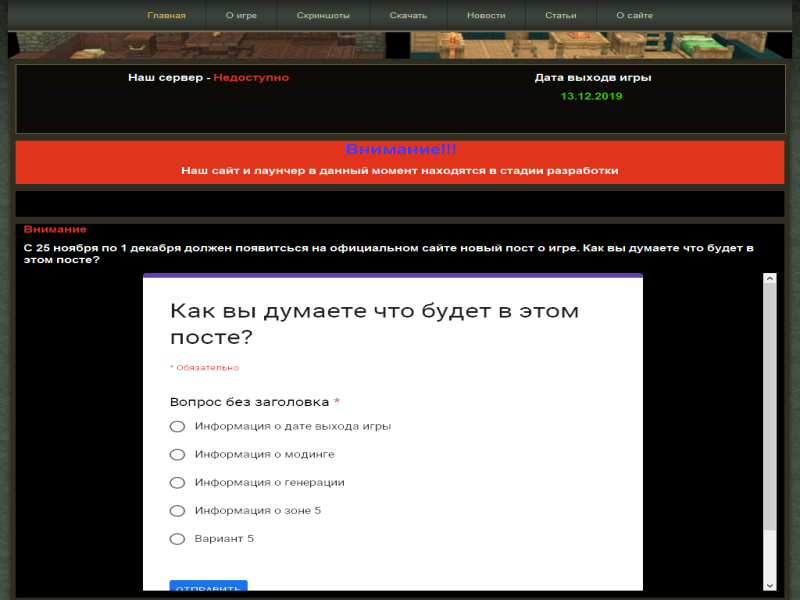
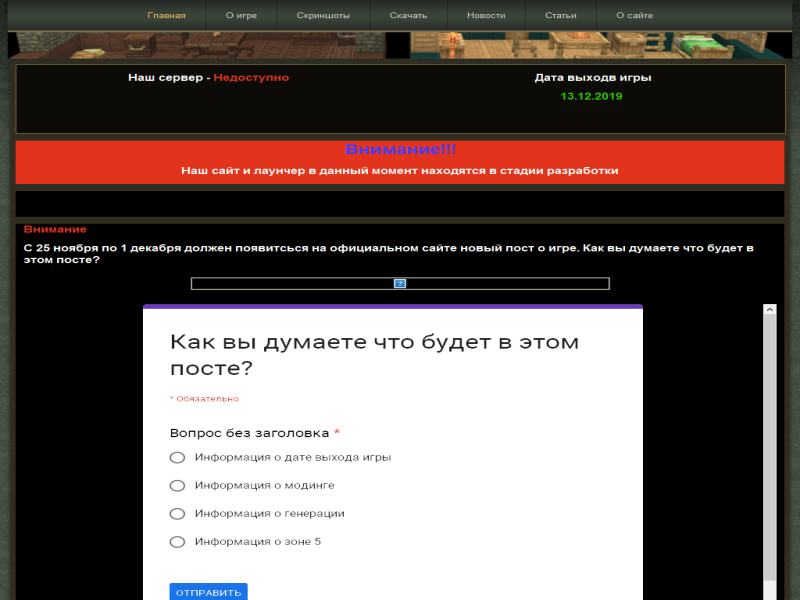
Обновление сайта

diff --git a/index.html b/index.html
@@ -77,7 +77,7 @@
     <div class="art-content-layout-row">
     <div class="art-layout-cell layout-item-3" style="width: 100%" >
         <p><script src="//megatimer.ru/get/f62e73b5b498076e5767d203726311b9.js" type="text/javascript">
-                </script></p>
+                        </script></p>
     </div>
     </div>
 </div>
@@ -88,7 +88,8 @@
     <div class="art-layout-cell layout-item-3" style="width: 100%" >
         <p><span style="font-size: 16px; font-weight: bold; text-align: center; -webkit-border-vertical-spacing: 10px;">Внимание</span></p>
         <p><span style="font-size: 16px; font-weight: bold; text-align: center; -webkit-border-vertical-spacing: 10px; color: #FFFFFF;">С 25 ноября по 1 декабря должен появитсься на официальном сайте новый пост о игре. Как вы думаете что будет в этом посте?</span></p>
-        <p style="text-align: center;"><span style="color: rgb(255, 255, 255); font-size: 16px; font-weight: bold; -webkit-border-vertical-spacing: 10px;"><iframe src="https://docs.google.com/forms/d/e/1FAIpQLScsriNS3MPHGotL2UrztN3o7AlryWI_HW8NQM709cnawyFJFQ/viewform?embedded=true" width="640" height="700" frameborder="0" marginheight="0" marginwidth="0"><span style="color: rgb(255, 255, 255); font-size: 16px; font-weight: bold; -webkit-border-vertical-spacing: 10px;">&amp;amp;lt;span style="color: rgb(255, 255, 255); font-size: 16px; font-weight: bold; -webkit-border-vertical-spacing: 10px;"&amp;amp;gt;&amp;amp;amp;amp;amp;lt;span style="color: rgb(255, 255, 255); font-size: 16px; font-weight: bold; -webkit-border-vertical-spacing: 10px;"&amp;amp;amp;amp;amp;gt;&amp;amp;amp;amp;amp;lt;span style="color: rgb(255, 255, 255); font-size: 16px; font-weight: bold; -webkit-border-vertical-spacing: 10px;"&amp;amp;amp;amp;amp;gt;&amp;amp;amp;amp;amp;lt;span style="color: rgb(255, 255, 255); font-size: 16px; font-weight: bold; -webkit-border-vertical-spacing: 10px;"&amp;amp;amp;amp;amp;gt;&amp;amp;amp;amp;amp;amp;amp;amp;lt;span style="color: rgb(255, 255, 255); font-size: 16px; font-weight: bold; -webkit-border-vertical-spacing: 10px;"&amp;amp;amp;amp;amp;amp;amp;amp;gt;&amp;amp;amp;amp;amp;amp;amp;amp;lt;span style="color: rgb(255, 255, 255); font-size: 16px; font-weight: bold; -webkit-border-vertical-spacing: 10px;"&amp;amp;amp;amp;amp;amp;amp;amp;gt;&amp;amp;amp;amp;amp;amp;amp;amp;lt;span style="color: rgb(255, 255, 255); font-size: 16px; font-weight: bold; -webkit-border-vertical-spacing: 10px;"&amp;amp;amp;amp;amp;amp;amp;amp;gt;Загрузка…&amp;amp;amp;amp;amp;amp;amp;amp;lt;/span&amp;amp;amp;amp;amp;amp;amp;amp;gt;&amp;amp;amp;amp;amp;amp;amp;amp;lt;/span&amp;amp;amp;amp;amp;amp;amp;amp;gt;&amp;amp;amp;amp;amp;amp;amp;amp;lt;/span&amp;amp;amp;amp;amp;amp;amp;amp;gt;&amp;amp;amp;amp;amp;lt;/span&amp;amp;amp;amp;amp;gt;&amp;amp;amp;amp;amp;lt;/span&amp;amp;amp;amp;amp;gt;&amp;amp;amp;amp;amp;lt;/span&amp;amp;amp;amp;amp;gt;&amp;amp;lt;/span&amp;amp;gt;</span></iframe></span></p>
+        <p style="text-align: center;"><img width="535" height="111" alt="" class="art-lightbox" src="images/%d0%a1%d0%bd%d0%b8%d0%bc%d0%be%d0%ba.png"><span style="font-size: 16px; font-weight: bold; text-align: center; -webkit-border-vertical-spacing: 10px; color: #FFFFFF;"><br></span></p>
+        <p style="text-align: center;"><span style="color: rgb(255, 255, 255); font-size: 16px; font-weight: bold; -webkit-border-vertical-spacing: 10px;"><iframe src="https://docs.google.com/forms/d/e/1FAIpQLScsriNS3MPHGotL2UrztN3o7AlryWI_HW8NQM709cnawyFJFQ/viewform?embedded=true" width="640" height="700" frameborder="0" marginheight="0" marginwidth="0"><span style="color: rgb(255, 255, 255); font-size: 16px; font-weight: bold; -webkit-border-vertical-spacing: 10px;">&amp;amp;lt;span style="color: rgb(255, 255, 255); font-size: 16px; font-weight: bold; -webkit-border-vertical-spacing: 10px;"&amp;amp;gt;&amp;amp;amp;amp;amp;lt;span style="color: rgb(255, 255, 255); font-size: 16px; font-weight: bold; -webkit-border-vertical-spacing: 10px;"&amp;amp;amp;amp;amp;gt;&amp;amp;amp;amp;amp;amp;amp;amp;lt;span style="color: rgb(255, 255, 255); font-size: 16px; font-weight: bold; -webkit-border-vertical-spacing: 10px;"&amp;amp;amp;amp;amp;amp;amp;amp;gt;&amp;amp;amp;amp;amp;amp;amp;amp;lt;span style="color: rgb(255, 255, 255); font-size: 16px; font-weight: bold; -webkit-border-vertical-spacing: 10px;"&amp;amp;amp;amp;amp;amp;amp;amp;gt;&amp;amp;amp;amp;amp;amp;amp;amp;lt;span style="color: rgb(255, 255, 255); font-size: 16px; font-weight: bold; -webkit-border-vertical-spacing: 10px;"&amp;amp;amp;amp;amp;amp;amp;amp;gt;&amp;amp;amp;amp;amp;amp;amp;amp;amp;amp;amp;lt;span style="color: rgb(255, 255, 255); font-size: 16px; font-weight: bold; -webkit-border-vertical-spacing: 10px;"&amp;amp;amp;amp;amp;amp;amp;amp;amp;amp;amp;gt;&amp;amp;amp;amp;amp;amp;amp;amp;amp;amp;amp;lt;span style="color: rgb(255, 255, 255); font-size: 16px; font-weight: bold; -webkit-border-vertical-spacing: 10px;"&amp;amp;amp;amp;amp;amp;amp;amp;amp;amp;amp;gt;&amp;amp;amp;amp;amp;amp;amp;amp;amp;amp;amp;lt;span style="color: rgb(255, 255, 255); font-size: 16px; font-weight: bold; -webkit-border-vertical-spacing: 10px;"&amp;amp;amp;amp;amp;amp;amp;amp;amp;amp;amp;gt;Загрузка…&amp;amp;amp;amp;amp;amp;amp;amp;amp;amp;amp;lt;/span&amp;amp;amp;amp;amp;amp;amp;amp;amp;amp;amp;gt;&amp;amp;amp;amp;amp;amp;amp;amp;amp;amp;amp;lt;/span&amp;amp;amp;amp;amp;amp;amp;amp;amp;amp;amp;gt;&amp;amp;amp;amp;amp;amp;amp;amp;amp;amp;amp;lt;/span&amp;amp;amp;amp;amp;amp;amp;amp;amp;amp;amp;gt;&amp;amp;amp;amp;amp;amp;amp;amp;lt;/span&amp;amp;amp;amp;amp;amp;amp;amp;gt;&amp;amp;amp;amp;amp;amp;amp;amp;lt;/span&amp;amp;amp;amp;amp;amp;amp;amp;gt;&amp;amp;amp;amp;amp;amp;amp;amp;lt;/span&amp;amp;amp;amp;amp;amp;amp;amp;gt;&amp;amp;amp;amp;amp;lt;/span&amp;amp;amp;amp;amp;gt;&amp;amp;lt;/span&amp;amp;gt;</span></iframe></span></p>
     </div>
     </div>
 </div>
